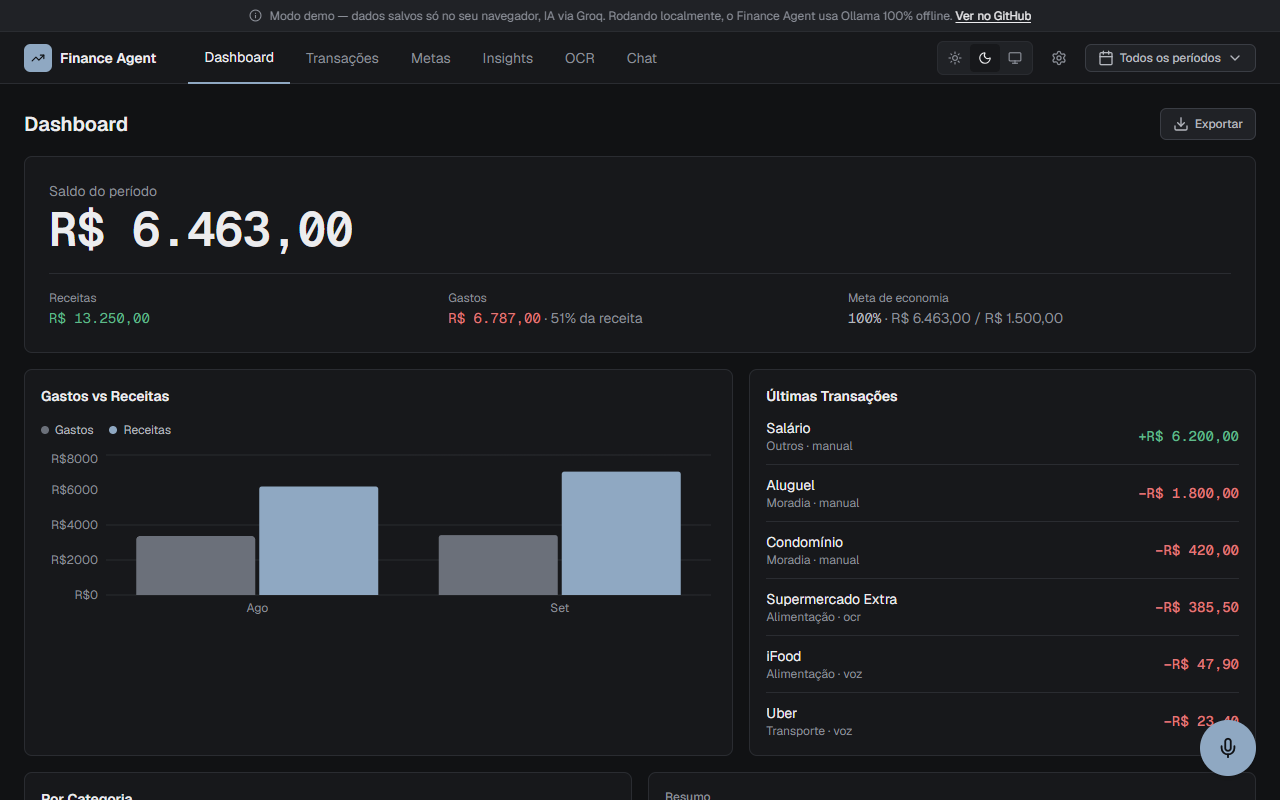
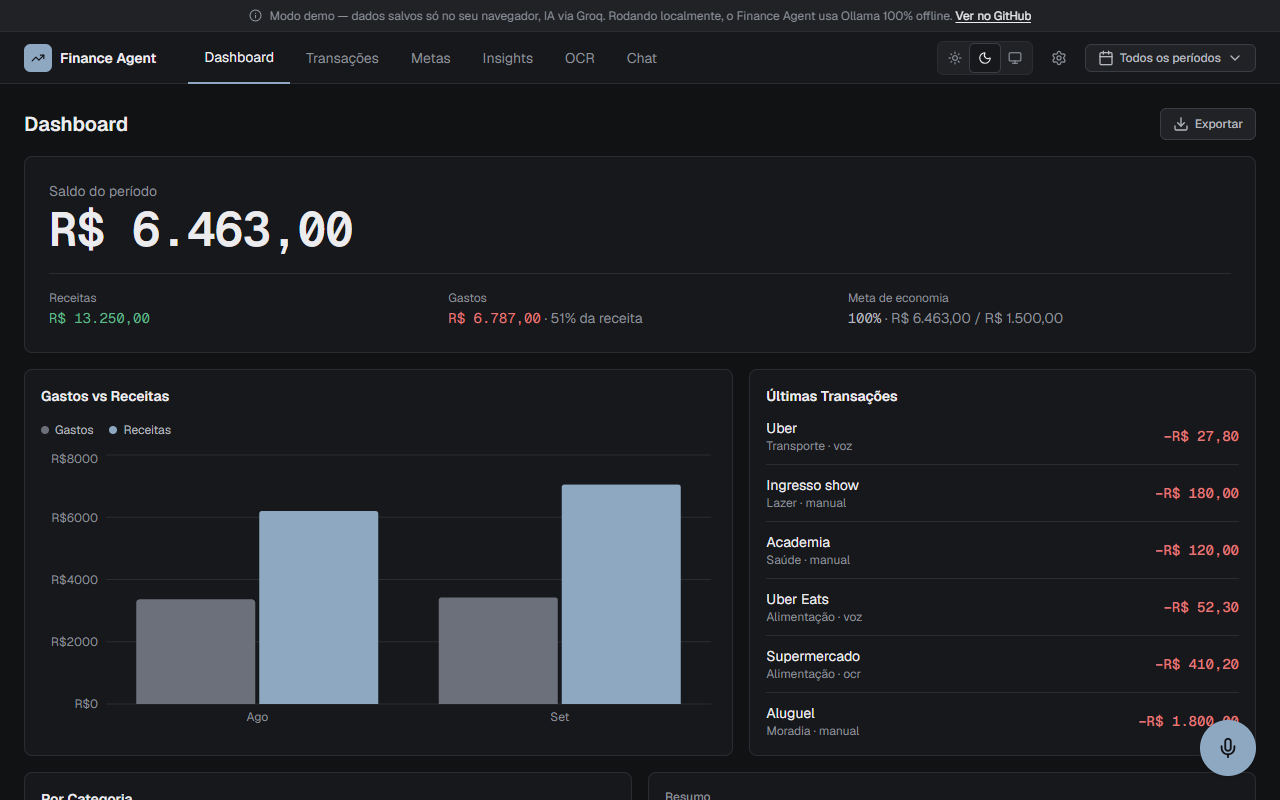
docs: atualizar screenshots e changelog das metas e transações

diff --git a/CHANGELOG.md b/CHANGELOG.md
@@ -4,6 +4,16 @@ Formato baseado em [Keep a Changelog](https://keepachangelog.com/pt-BR/1.1.0/).
 
 ## [Unreleased]
 
+### Alterado
+- Transações listadas da mais recente para a mais antiga; "Últimas transações" do dashboard passa a mostrar as mais recentes.
+- Datas em `dd/mm/aaaa`, origem em texto e ações de editar/remover acessíveis por teclado e toque.
+- Metas: todas as categorias com a mesma estrutura e ação "Definir limite".
+- Gráfico de gastos vs receitas ocupa a altura do card.
+
+### Corrigido
+- Meta de economia carregada corretamente ao abrir a tela de metas.
+- Hovers sem efeito e contraste dos botões ativos do formulário, do seletor de tema e do trilho das barras de progresso.
+
 ## [0.2.0] - 2026-10-04
 
 ### Adicionado
